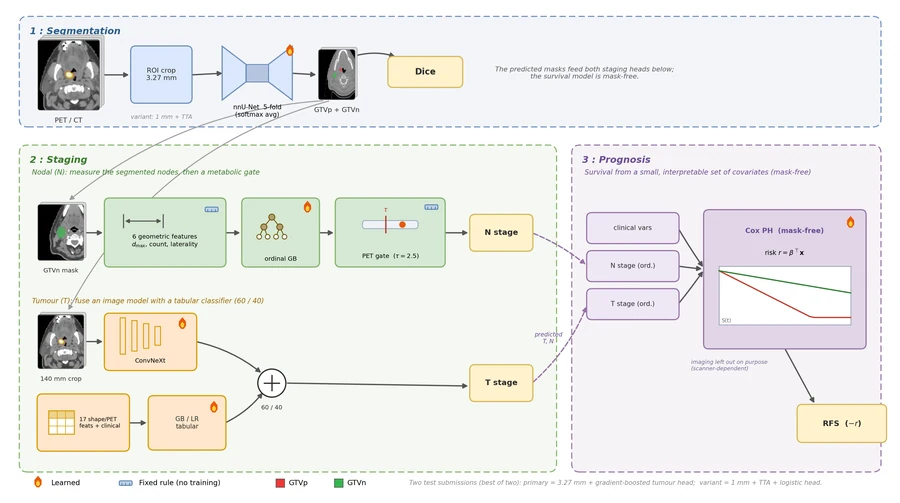
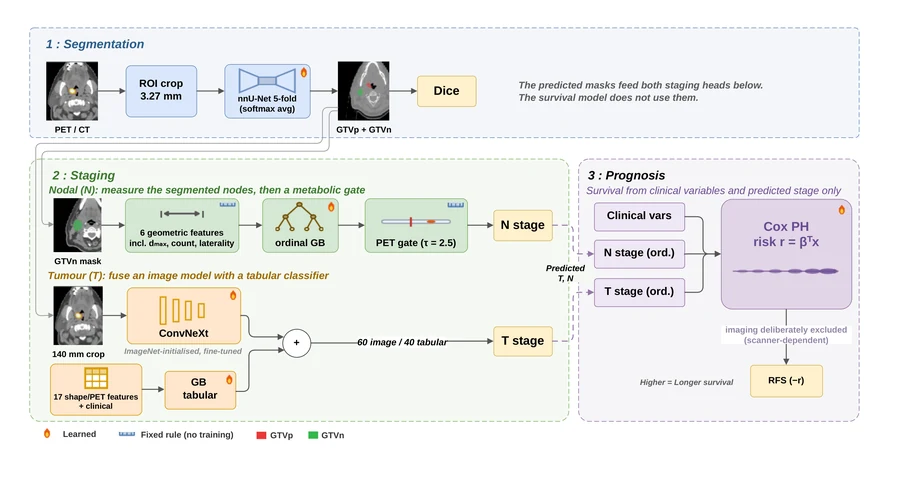
Use the published pipeline figure
The site was showing assets/pipeline.png from the HECKTOR repo, but the
README points at assets/_final_pipeline-1.png as "Figure 1 of the paper:
the validated system". Swapped to that one and regenerated the WebP
variants.

The new figure labels the ConvNeXt as ImageNet-initialised and fine-tuned,
spells out the 60 image / 40 tabular fusion, shows the Cox risk formula, and
states that imaging is deliberately excluded from survival. Updated the alt
text and caption to match, and the dimensions to 2839x1520 so the layout
still reserves the right space.

Changed region(s): [[0.0311, 0.0311, 0.9956, 0.9647], [0.56, 0.1245, 0.84, 0.2178], [0.5911, 0.8714, 0.6222, 0.9025]]

diff --git a/index.html b/index.html
@@ -769,12 +769,12 @@ footer .altlink:hover{color:var(--band-link);border-bottom-color:currentColor}
         <picture>
           <source type="image/webp" sizes="(max-width:760px) 92vw, (max-width:1180px) 84vw, 900px"
                   srcset="figures/pipeline-900.webp 900w, figures/pipeline-1400.webp 1400w, figures/pipeline-2000.webp 2000w" />
-          <img src="figures/pipeline.png" width="2925" height="1634" loading="lazy" decoding="async"
-               alt="Three-stage pipeline diagram. Stage one segments PET/CT with an nnU-Net to produce primary tumour and nodal masks. Stage two derives nodal stage from six geometric features through an ordinal gradient booster and a PET activity gate, and derives tumour stage by fusing a ConvNeXt on a 140 mm crop with a tabular classifier. Stage three predicts recurrence-free survival with a mask-free Cox model over clinical variables and predicted stage." />
+          <img src="figures/pipeline.png" width="2839" height="1520" loading="lazy" decoding="async"
+               alt="Three-stage pipeline diagram. Stage one crops a co-registered PET/CT pair to 3.27 mm and segments the primary tumour and nodes with a five-fold nnU-Net, scored by Dice. Stage two derives nodal stage from six geometric features of the segmented nodes, including greatest diameter, count and laterality, through an ordinal gradient booster and a fixed PET activity gate at tau 2.5; tumour stage fuses an ImageNet-initialised ConvNeXt on a 140 mm crop with a gradient-boosted tabular model over seventeen shape and PET features, weighted 60 image to 40 tabular. Stage three predicts recurrence-free survival with a Cox proportional-hazards model over clinical variables and predicted stage only, with imaging deliberately excluded as scanner-dependent." />
         </picture>
         <span class="zoomtag">View full size</span>
       </a>
-      <figcaption><b>Figure 1.</b> The pipeline. Segmentation feeds both staging heads; the survival model is deliberately mask-free. The flame marks a learned component, the blue tag marks a fixed rule with no training at all.</figcaption>
+      <figcaption><b>Figure 1.</b> The pipeline. Segmentation feeds both staging heads; the survival model deliberately does not use the masks. The flame marks a learned component, the blue tag marks a fixed rule with no training at all.</figcaption>
     </figure>
 
     <figure class="plate">
